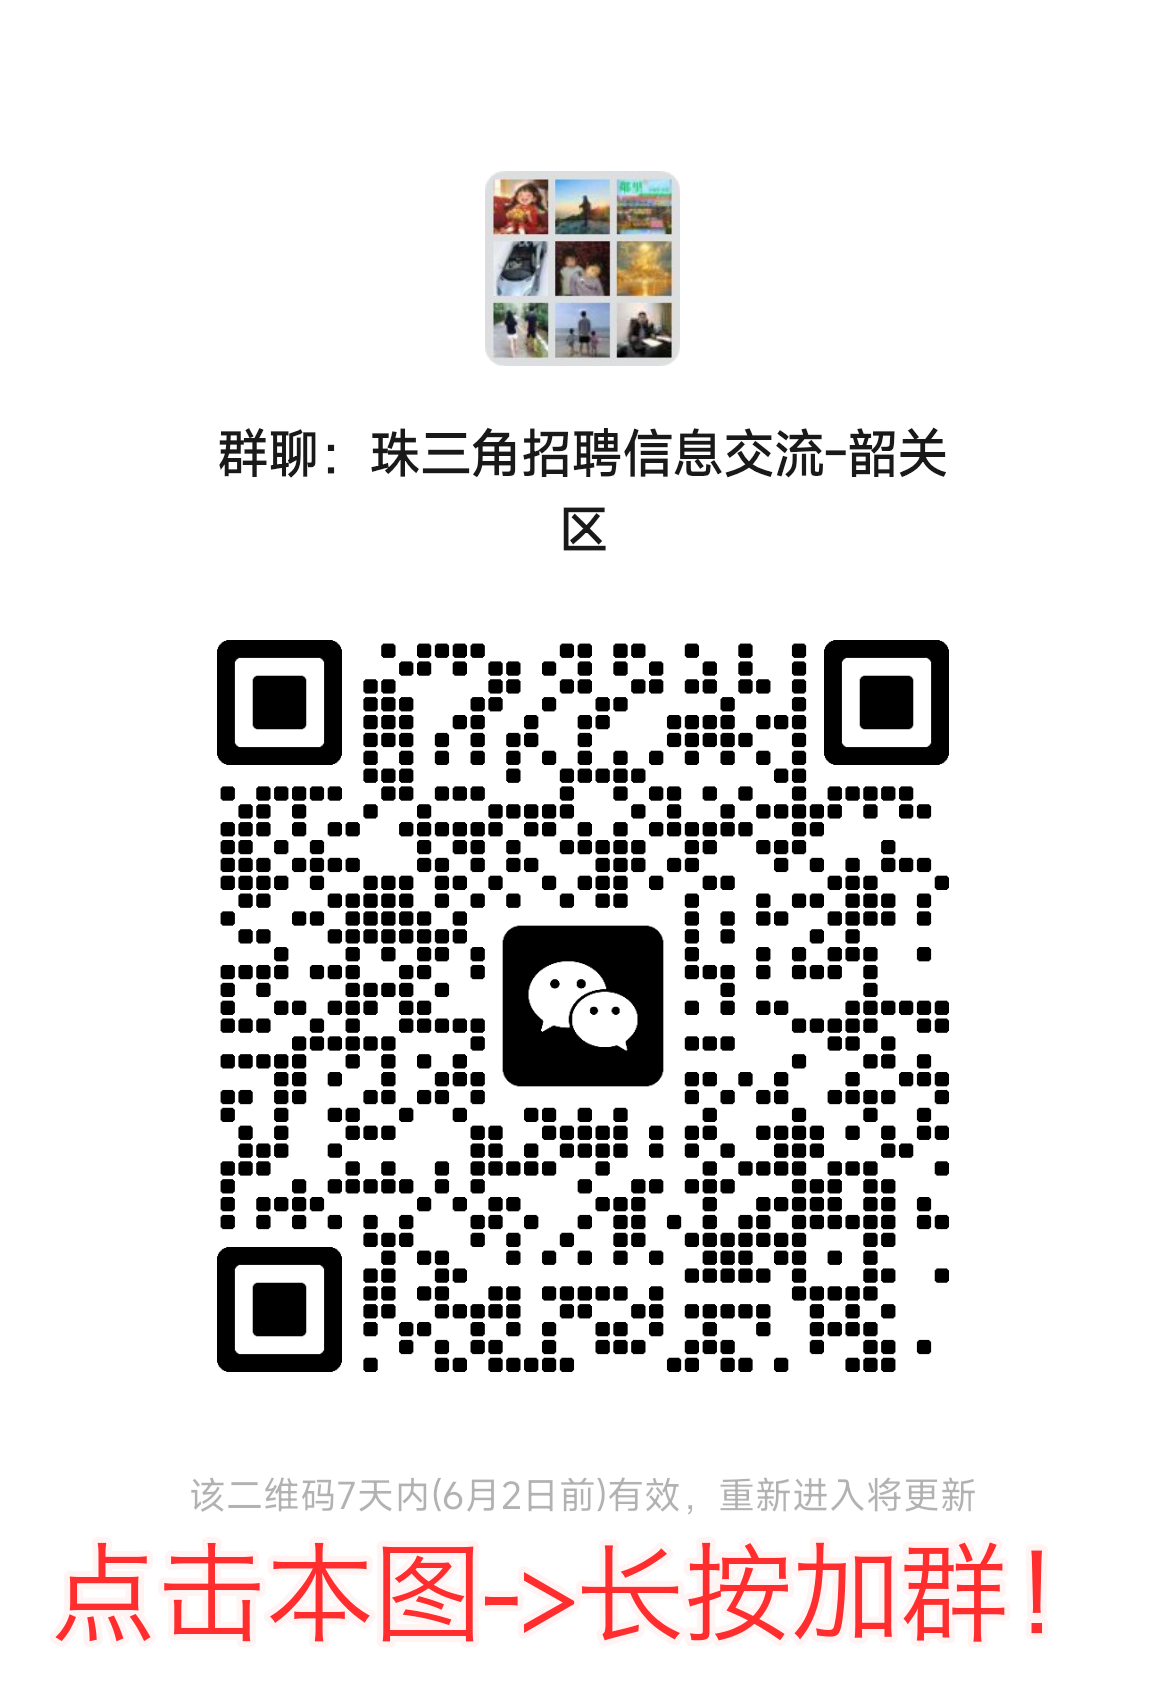
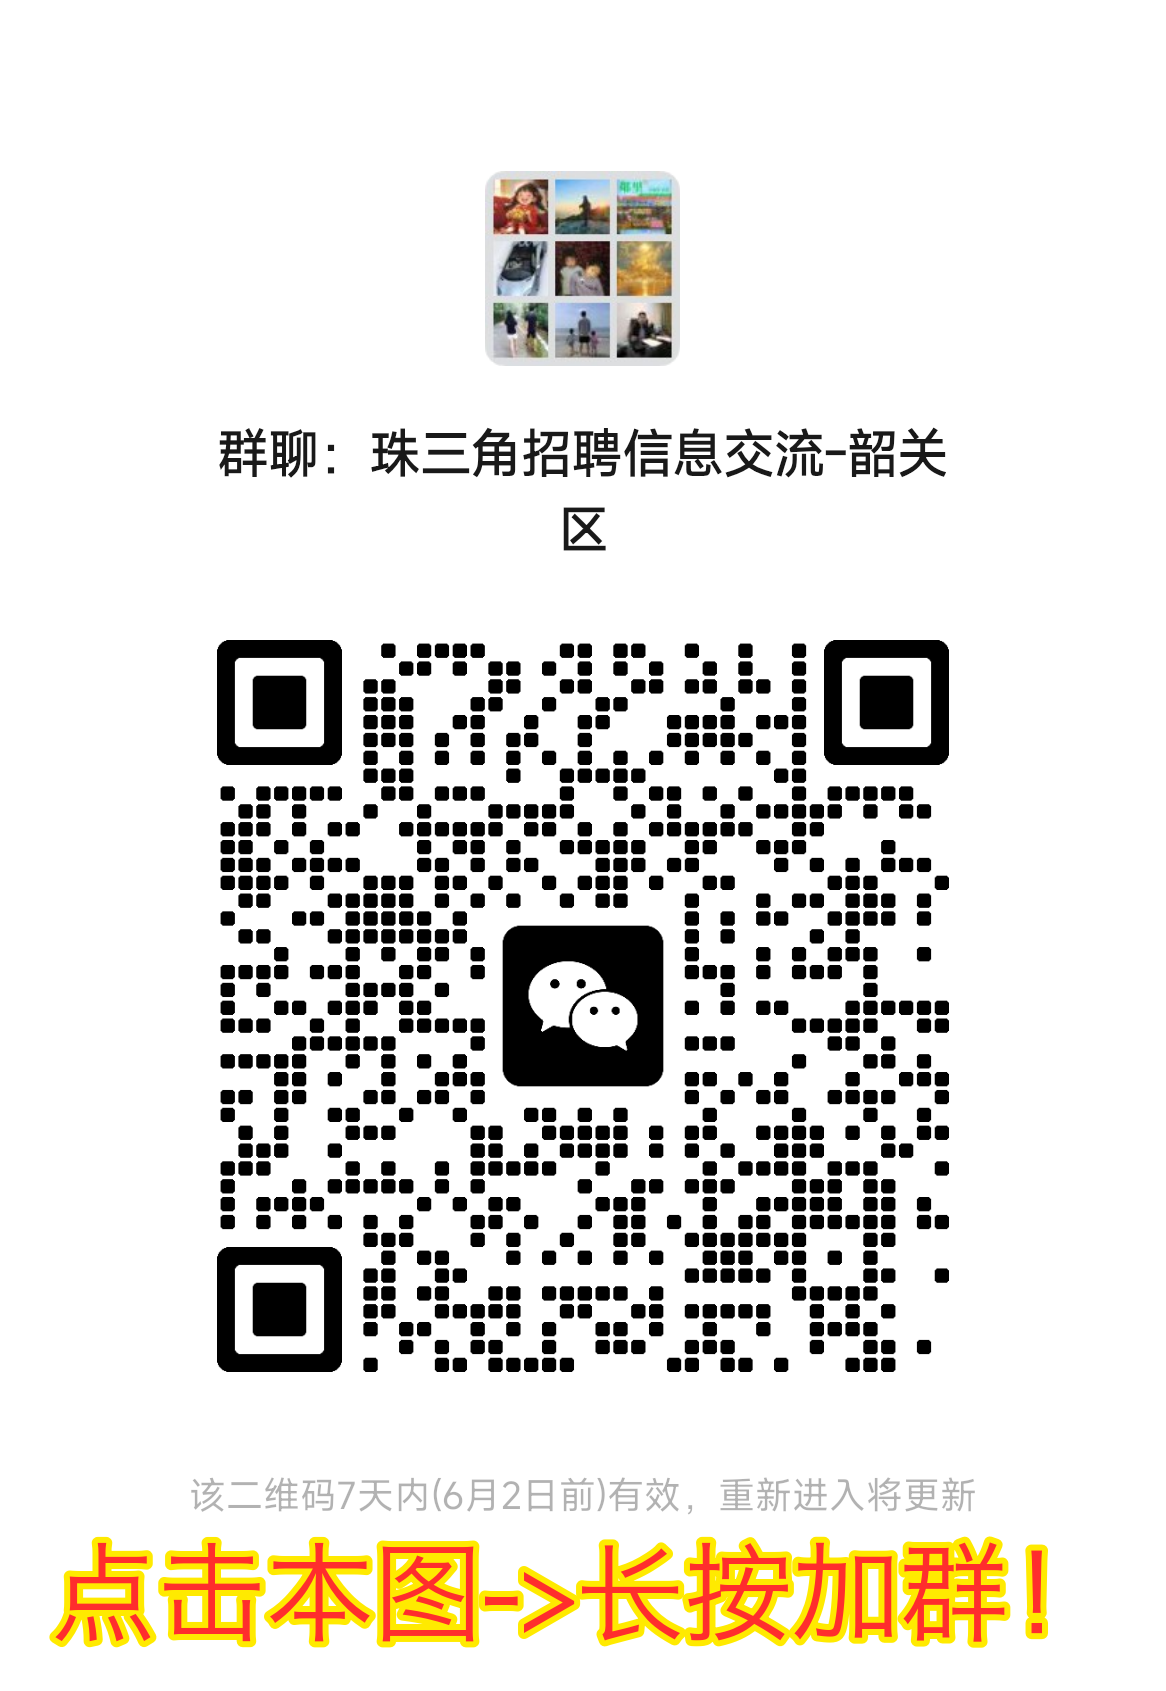
加水印新增图形界面

Changed region(s): [[0.0309, 0.8918, 0.8954, 0.984]]

diff --git a/image_watermark.py b/image_watermark.py
@@ -8,19 +8,25 @@ import platform
 from pathlib import Path
 from typing import Iterable
 
-from PIL import Image, ImageDraw, ImageFont
+try:
+    from PIL import Image, ImageDraw, ImageFont
+    PIL_IMPORT_ERROR: Exception | None = None
+except ImportError as exc:
+    Image = ImageDraw = ImageFont = None
+    PIL_IMPORT_ERROR = exc
 
 DEFAULT_WATERMARK_TEXT = "点击本图->长按加群！"
 DEFAULT_BOTTOM_MARGIN = 40
 DEFAULT_SIDE_PADDING = 40
 DEFAULT_FILL = "#FF2D2D"
-DEFAULT_STROKE_FILL = "#FFF4F4"
+DEFAULT_STROKE_FILL = "#FFEA00"
 DEFAULT_STROKE_RATIO = 0.06
 DEFAULT_BOLD_RATIO = 0.03
 MIN_FONT_SIZE = 12
 MAX_OUTPUT_SCALE = 1.2
 MAX_JPEG_QUALITY = 95
-MIN_JPEG_QUALITY = 70
+MIN_JPEG_QUALITY = 35
+FALLBACK_SCALE_STEPS = (0.98, 0.96, 0.94, 0.92, 0.9, 0.88, 0.85, 0.82, 0.8, 0.75)
 
 MAC_FONT_CANDIDATES = (
     "/System/Library/Fonts/Supplemental/PingFang SC Semibold.ttf",
@@ -48,7 +54,7 @@ OTHER_FONT_CANDIDATES = (
 
 def parse_args() -> argparse.Namespace:
     parser = argparse.ArgumentParser(description="给图片底部添加自适应水印。")
-    parser.add_argument("image", help="输入图片路径，例如 images/group-qr-code.png")
+    parser.add_argument("image", nargs="?", help="输入图片路径，例如 images/group-qr-code.png")
     parser.add_argument(
         "-o",
         "--output",
@@ -76,6 +82,11 @@ def parse_args() -> argparse.Namespace:
         default=DEFAULT_SIDE_PADDING,
         help=f"左右留白像素值，默认 {DEFAULT_SIDE_PADDING}",
     )
+    parser.add_argument(
+        "--gui",
+        action="store_true",
+        help="打开图形界面",
+    )
     return parser.parse_args()
 
 
@@ -83,6 +94,29 @@ def resolve_output_path(image_path: Path, output: str | None) -> Path:
     if output:
         return Path(output)
     return image_path.with_name(f"{image_path.stem}_watermarked{image_path.suffix}")
+
+
+def ensure_pillow_available(use_gui: bool = False) -> None:
+    if PIL_IMPORT_ERROR is None:
+        return
+
+    message = (
+        "未检测到 Pillow，请先安装依赖：\n"
+        "macOS: python3 -m pip install pillow\n"
+        "Windows: python -m pip install pillow"
+    )
+    if use_gui:
+        try:
+            import tkinter as tk
+            from tkinter import messagebox
+
+            root = tk.Tk()
+            root.withdraw()
+            messagebox.showerror("缺少依赖", message)
+            root.destroy()
+        except Exception:
+            pass
+    raise SystemExit(message)
 
 
 def expand_font_path(raw_path: str) -> Path:
@@ -274,7 +308,7 @@ def encode_png_candidates(image: Image.Image) -> list[bytes]:
     rgba_image.save(optimized, format="PNG", optimize=True, compress_level=9)
     candidates.append(optimized.getvalue())
 
-    for colors in (256, 192, 128, 96, 64):
+    for colors in (256, 192, 128, 96, 64, 48, 32, 24, 16, 8):
         quantized = rgba_image.quantize(colors=colors, method=Image.FASTOCTREE, dither=Image.Dither.FLOYDSTEINBERG)
         if "transparency" in rgba_image.info:
             quantized.info["transparency"] = rgba_image.info["transparency"]
@@ -301,34 +335,69 @@ def encode_jpeg_candidates(image: Image.Image) -> list[bytes]:
     return candidates
 
 
+def resize_image(image: Image.Image, scale: float) -> Image.Image:
+    width = max(1, round(image.width * scale))
+    height = max(1, round(image.height * scale))
+    return image.resize((width, height), Image.Resampling.LANCZOS)
+
+
+def encode_single_candidate(image: Image.Image, image_format: str) -> bytes:
+    buf = io.BytesIO()
+    image.save(buf, format=image_format)
+    return buf.getvalue()
+
+
+def encode_candidates_by_format(image: Image.Image, image_format: str) -> list[bytes]:
+    fmt = image_format.upper()
+    if fmt == "PNG":
+        return encode_png_candidates(image)
+    if fmt in {"JPG", "JPEG"}:
+        return encode_jpeg_candidates(image)
+    return [encode_single_candidate(image, image_format)]
+
+
 def choose_encoded_output(image: Image.Image, image_format: str, original_size: int) -> bytes:
     upper_limit = int(original_size * MAX_OUTPUT_SCALE)
-    fmt = image_format.upper()
-
-    if fmt == "PNG":
-        candidates = encode_png_candidates(image)
-    elif fmt in {"JPG", "JPEG"}:
-        candidates = encode_jpeg_candidates(image)
-    else:
-        buf = io.BytesIO()
-        image.save(buf, format=image_format)
-        data = buf.getvalue()
-        if len(data) > upper_limit:
-            raise RuntimeError(f"输出文件过大，已超过原图的 {MAX_OUTPUT_SCALE:.0%}。")
-        return data
-
+    candidates = encode_candidates_by_format(image, image_format)
     for data in candidates:
         if len(data) <= upper_limit:
             return data
 
-    raise RuntimeError(f"输出文件过大，已超过原图的 {MAX_OUTPUT_SCALE:.0%}。")
+    all_candidates = list(candidates)
+
+    for scale in FALLBACK_SCALE_STEPS:
+        resized_image = resize_image(image, scale)
+        resized_candidates = encode_candidates_by_format(resized_image, image_format)
+        all_candidates.extend(resized_candidates)
+        for data in resized_candidates:
+            if len(data) <= upper_limit:
+                return data
+
+    scale = FALLBACK_SCALE_STEPS[-1]
+    while scale > 0.3:
+        scale = round(scale * 0.9, 4)
+        resized_image = resize_image(image, scale)
+        resized_candidates = encode_candidates_by_format(resized_image, image_format)
+        all_candidates.extend(resized_candidates)
+        for data in resized_candidates:
+            if len(data) <= upper_limit:
+                return data
+
+    raise RuntimeError(
+        f"输出文件仍无法压缩到原图的 {MAX_OUTPUT_SCALE:.0%} 以内，当前最小结果为 {len(min(all_candidates, key=len))} bytes。"
+    )
 
 
-def main() -> None:
-    args = parse_args()
-    image_path = Path(args.image)
-    output_path = resolve_output_path(image_path, args.output)
-
+def process_image(
+    image_path: Path,
+    text: str,
+    output: str | None = None,
+    font_path: str | None = None,
+    side_padding: int = DEFAULT_SIDE_PADDING,
+    bottom_margin: int = DEFAULT_BOTTOM_MARGIN,
+) -> Path:
+    ensure_pillow_available()
+    output_path = resolve_output_path(image_path, output)
     if not image_path.exists():
         raise FileNotFoundError(f"输入图片不存在: {image_path}")
 
@@ -336,10 +405,10 @@ def main() -> None:
         image_format = image.format or image_path.suffix.lstrip(".").upper()
         watermarked = add_watermark(
             image=image,
-            text=args.text,
-            font_path=args.font,
-            side_padding=args.side_padding,
-            bottom_margin=args.bottom_margin,
+            text=text,
+            font_path=font_path,
+            side_padding=side_padding,
+            bottom_margin=bottom_margin,
         )
         encoded = choose_encoded_output(
             image=watermarked,
@@ -349,12 +418,115 @@ def main() -> None:
 
     output_path.parent.mkdir(parents=True, exist_ok=True)
     output_path.write_bytes(encoded)
+    return output_path
+
+
+def run_cli(args: argparse.Namespace) -> None:
+    if not args.image:
+        raise SystemExit("请传入图片路径，或使用 --gui 打开图形界面。")
+
+    image_path = Path(args.image)
+    output_path = process_image(
+        image_path=image_path,
+        text=args.text,
+        output=args.output,
+        font_path=args.font,
+        side_padding=args.side_padding,
+        bottom_margin=args.bottom_margin,
+    )
 
     print(f"输入图片: {image_path}")
     print(f"输出图片: {output_path}")
     print(f"水印内容: {args.text}")
     print(f"原图大小: {image_path.stat().st_size} bytes")
     print(f"输出大小: {output_path.stat().st_size} bytes")
+
+
+def launch_gui(default_text: str = DEFAULT_WATERMARK_TEXT) -> None:
+    ensure_pillow_available(use_gui=True)
+
+    import tkinter as tk
+    from tkinter import filedialog, messagebox
+
+    root = tk.Tk()
+    root.title("图片水印工具")
+    root.geometry("640x220")
+    root.resizable(False, False)
+
+    image_var = tk.StringVar()
+    text_var = tk.StringVar()
+    status_var = tk.StringVar(
+        value=f"请选择一张图片；水印内容可自定义，留空则使用默认：{default_text}"
+    )
+
+    def choose_image() -> None:
+        file_path = filedialog.askopenfilename(
+            title="选择图片",
+            filetypes=[
+                ("图片文件", "*.png *.jpg *.jpeg *.webp *.bmp *.gif *.tif *.tiff"),
+                ("所有文件", "*.*"),
+            ],
+        )
+        if file_path:
+            image_var.set(file_path)
+            status_var.set("已选择图片，点击“开始加水印”即可生成。")
+
+    def submit() -> None:
+        image_path_str = image_var.get().strip()
+        watermark_text = text_var.get().strip() or default_text
+
+        if not image_path_str:
+            messagebox.showwarning("缺少图片", "请先选择一张图片。")
+            return
+
+        try:
+            output_path = process_image(
+                image_path=Path(image_path_str),
+                text=watermark_text,
+            )
+        except Exception as exc:
+            messagebox.showerror("生成失败", str(exc))
+            status_var.set("生成失败，请检查图片路径、字体配置或图片格式。")
+            return
+
+        status_var.set(f"生成成功：{output_path}；当前水印：{watermark_text}")
+        messagebox.showinfo("生成成功", f"已生成加水印图片：\n{output_path}")
+
+    root.columnconfigure(1, weight=1)
+
+    tk.Label(root, text="图片路径").grid(row=0, column=0, padx=12, pady=(18, 8), sticky="w")
+    tk.Entry(root, textvariable=image_var, width=58).grid(row=0, column=1, padx=0, pady=(18, 8), sticky="ew")
+    tk.Button(root, text="选择图片", command=choose_image, width=12).grid(row=0, column=2, padx=12, pady=(18, 8))
+
+    tk.Label(root, text="水印内容").grid(row=1, column=0, padx=12, pady=8, sticky="w")
+    tk.Entry(root, textvariable=text_var, width=58).grid(row=1, column=1, padx=0, pady=8, sticky="ew")
+    tk.Label(root, text=f"留空默认：{default_text}", fg="#666666").grid(
+        row=2, column=1, padx=0, pady=(0, 6), sticky="w"
+    )
+
+    tk.Button(root, text="开始加水印", command=submit, width=16, height=2).grid(
+        row=3, column=1, padx=0, pady=(14, 10), sticky="w"
+    )
+
+    tk.Label(
+        root,
+        textvariable=status_var,
+        fg="#555555",
+        anchor="w",
+        justify="left",
+        wraplength=600,
+    ).grid(row=4, column=0, columnspan=3, padx=12, pady=(4, 0), sticky="w")
+
+    root.bind("<Return>", lambda _event: submit())
+    root.mainloop()
+
+
+def main() -> None:
+    args = parse_args()
+    if args.gui or not args.image:
+        launch_gui(default_text=args.text)
+        return
+    run_cli(args)
 
 
 if __name__ == "__main__":

diff --git a/README.md b/README.md
@@ -28,6 +28,16 @@ Windows 也可以这样安装：
 python -m pip install pillow
 ```
 
+图形界面启动：
+
+1. **macOS**：双击 `launch_image_watermark.command`
+2. **Windows**：双击 `launch_image_watermark.bat`
+3. 也可以直接运行：
+
+```bash
+python3 image_watermark.py --gui
+```
+
 给图片底部 40px 处加一行红色醒目水印：
 
 ```bash
@@ -58,7 +68,9 @@ python image_watermark.py images\group-qr-code.png ^
 
 说明：
 1. 默认文案写在脚本常量 `DEFAULT_WATERMARK_TEXT`，也可以通过 `--text` 覆盖。
-2. 水印文字会以 **红色加粗** 方式渲染；优先使用系统粗体中文字体，必要时会额外做加粗增强。
-3. 文字会在图片宽度允许的前提下自动放大；如果文案太长，会自动缩小以适配宽度。
-4. 脚本会优先保证清晰度，并尽量把输出图片控制到 **不大于原图**；如果做不到，也会控制在 **原图 120% 以内**。
-5. 脚本已兼容 **macOS / Windows**，会优先自动查找系统里的常见中文字体；如果本机缺少可用字体，可以通过 `--font` 显式指定字体文件。
+2. 直接运行 `image_watermark.py` 且不带参数时，也会自动打开 GUI。
+3. GUI 中选择一张图片，可在输入框自定义水印内容；如果留空，会自动使用默认文案 `点击本图->长按加群！`。
+4. 水印文字会以 **红色加粗 + 高亮黄色描边** 方式渲染；优先使用系统粗体中文字体，必要时会额外做加粗增强。
+5. 文字会在图片宽度允许的前提下自动放大；如果文案太长，会自动缩小以适配宽度。
+6. 脚本会优先保证清晰度；如果生成结果超过原图的 **120%**，会继续自动压缩，直到降到 **原图 120% 以内** 再输出。
+7. 脚本已兼容 **macOS / Windows**，会优先自动查找系统里的常见中文字体；如果本机缺少可用字体，可以通过 `--font` 显式指定字体文件。
